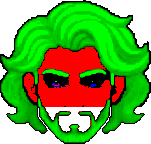
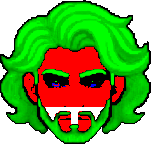
Anao: 4 penteados e 4 barbas; barba longa desce pelo peito e trancas com aneis inteiras

diff --git a/tools/arte/importar_novas.py b/tools/arte/importar_novas.py
@@ -596,6 +596,16 @@ def _encolher(m, n):
     return ~_crescer(~m, n)
 
 
+def _fechar_vertical(m, n):
+    """preenche, em cada coluna, os buracos de ate n px entre dois pixels da mascara (anel de metal na tranca)"""
+    m = m.copy()
+    for x in np.where(m.any(0))[0]:
+        ys = np.where(m[:, x])[0]
+        for y0, y1 in zip(ys[:-1], ys[1:]):
+            if 1 < y1 - y0 <= n: m[y0:y1, x] = True
+    return m
+
+
 def _diferente(a, b):
     """onde duas telas RGBA diferem de verdade (sem as linhas finas de um traco redesenhado 1-2 px ao lado)"""
     d = (np.abs(a[..., :3].astype(int) - b[..., :3].astype(int)).sum(-1) > 90) | ((a[..., 3] > 128) != (b[..., 3] > 128))
@@ -770,7 +780,8 @@ def importar_raca(race, cfg, arquivos, altura=600):
             rabo = _crescer(parts.get('cabelo', np.zeros((H, W), bool)) & (yy >= nariz) & ~banda, 2) & op
             heads['apagar']['cabelo'] = _camada(z, op & ((yy < nariz) | rabo), f'cabeca_{race}_apagar_cabelo.png')
     # na peca, a barba conta como cabelo; em cima vale acima do boneco (coque e moicano mais altos que a cabeca)
-    pc = dict(cfg); pc['cabelo'] = dict(cfg['cabelo'], y=[-0.5, cab['mechas_y'] if sm else cab['queixo'] + 0.02])
+    ch = cfg['cabelo'].get('chroma')                       # verde exato: a peca vale ate os pes (barba longa, trancas)
+    pc = dict(cfg); pc['cabelo'] = dict(cfg['cabelo'], y=[-0.5, 1.0 if ch else cab['mechas_y'] if sm else cab['queixo'] + 0.02])
     for key, _ in arquivos:
         if not key.startswith(('cabelo:', 'barba:')):
             continue
@@ -789,8 +800,8 @@ def importar_raca(race, cfg, arquivos, altura=600):
                     ligado |= novo
                 m4[ligado] = (0, 255, 0, 255)                       # abaixo do nariz a peca e so cabelo (a sombra nao e pele)
                 alpha = (op & (yy < nariz + 2)) | ligado
-            elif cfg['cabelo'].get('chroma'):               # verde exato: o cabelo que desce entra todo (trancas), e onde o
-                alpha = (op & ((yy < nariz + 2) | rabo)) | (_crescer(pelo & ((yy < queixo) | ~banda), 1) & op)   # rabo do boneco estava
+            elif ch:               # verde exato: o cabelo que desce entra todo (trancas), e onde o
+                alpha = (op & ((yy < nariz + 2) | rabo)) | (_crescer(_fechar_vertical(pelo & ((yy < queixo) | ~banda), 24), 1) & op)   # rabo do boneco estava
             else:
                 alpha = (op & (yy < nariz + 2)) | (_crescer(pelo, 1) & op & (yy < queixo))
             ent = _camada(a, alpha, f'cabeca_{race}_cabelo_{estilo}.png')
@@ -798,9 +809,12 @@ def importar_raca(race, cfg, arquivos, altura=600):
             heads['cabelo'][estilo] = ent
         else:                                               # barba: recortada para cada roupa (a gola fica na frente)
             fios = _crescer(pelo & banda, 1)
+            if ch:                                          # barba longa: os fios que descem pelo peito (sem o rabo do boneco)
+                fios_peito = _crescer(_fechar_vertical(pelo & (yy >= nariz) & ~rabo, 24), 1) & op   # fecha os aneis da tranca
             heads['barba'][estilo] = {}
             for r in roupas:
                 alpha = op & (_crescer(rosto[r], 1) | fios) & banda
+                if ch: alpha |= fios_peito
                 ent = _camada(a, alpha, f'cabeca_{race}_barba_{estilo}__{r}.png')
                 ent['mask'] = _camada(m4, alpha, f'cabeca_{race}_barba_{estilo}__{r}_mascara.png')['file']
                 heads['barba'][estilo][r] = ent
